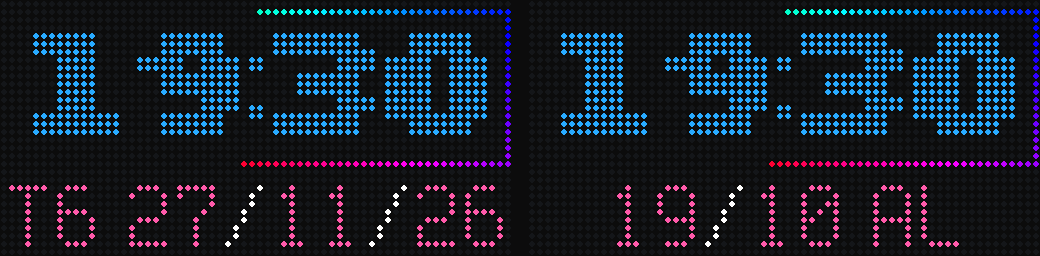
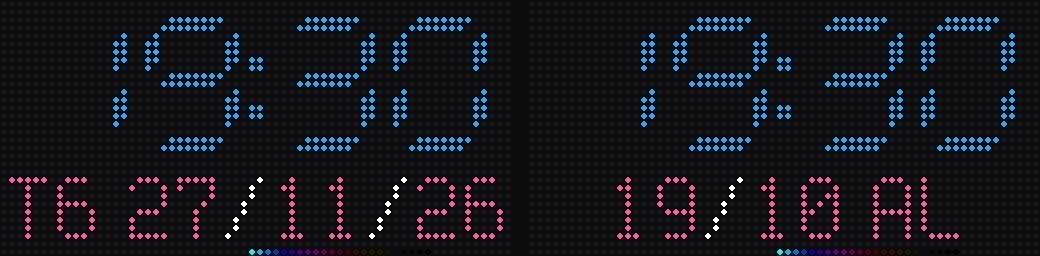
feat: add seven-segment time and smooth full-panel rainbow runner

diff --git a/main/gfx/clock_face.cpp b/main/gfx/clock_face.cpp
@@ -12,14 +12,14 @@ static int advance(char c) {
     // Dấu chấm/space tự tạo khoảng cách; không thêm một cột trống nữa.
     return small_width(c)+(c==' '||c=='.'?0:1);
 }
-static void small_glyph(char c,int x,int y,Rgb color,int clip_top) {
+static void small_glyph(char c,int x,int y,Rgb color,int clip_top,int clip_bottom=PANEL_H) {
     const char *found=strchr(CLOCK_SMALL_CODES,c);
     if(!found||c==' ') return;
     const auto &rows=CLOCK_SMALL[found-CLOCK_SMALL_CODES];
     for(int row=0;row<8;++row) for(int col=0;col<5;++col) {
         const int px=x+(c=='.'?0:col), py=y+row;
         if(c=='.'&&col!=2) continue;
-        if(px<0||px>=PANEL_W||py<clip_top||py>=PANEL_H) continue;
+        if(px<0||px>=PANEL_W||py<clip_top||py>=clip_bottom) continue;
         if(rows[row]&(16>>col)) panel_set_pixel(px,py,color.r,color.g,color.b);
     }
 }
@@ -33,11 +33,26 @@ void clock_face_draw(const char *text,int y,int,Rgb color) {
     for(;*text;++text) {small_glyph(*text,x,y,color,0);x+=advance(*text);}
 }
 void clock_face_time(int hour,int minute,bool colon,Rgb color) {
+    static const uint8_t MASKS[]={0x3f,0x06,0x5b,0x4f,0x66,0x6d,0x7d,0x07,0x7f,0x6f};
     const int digits[]={hour/10,hour%10,minute/10,minute%10};
-    const int xs[]={3,17,34,48};
-    for(int i=0;i<4;++i) for(int row=0;row<13;++row) for(int col=0;col<13;++col) {
-        if(CLOCK_DIGITS[digits[i]][row]&(1<<(12-col)))
-            panel_set_pixel(xs[i]+col,row+4,color.r,color.g,color.b);
+    const int xs[]={4,18,35,49};
+    // Bảy đoạn chuẩn, ô 12x17, nét 2 px với đầu đoạn vát.
+    for(int i=0;i<4;++i) {
+        const uint8_t mask=MASKS[digits[i]];
+        const int horizontal_bits[]={0,6,3}, ys[]={2,9,17};
+        for(int segment=0;segment<3;++segment) if(mask&(1<<horizontal_bits[segment])) {
+            for(int dy=0;dy<2;++dy) for(int dx=0;dx<8;++dx) {
+                if((dx==0&&dy==0)||(dx==7&&dy==1)) continue;
+                panel_set_pixel(xs[i]+2+dx,ys[segment]+dy,color.r,color.g,color.b);
+            }
+        }
+        const int vertical_bits[]={5,1,4,2}, vx[]={0,10,0,10}, vy[]={4,4,11,11};
+        for(int segment=0;segment<4;++segment) if(mask&(1<<vertical_bits[segment])) {
+            for(int dy=0;dy<5;++dy) for(int dx=0;dx<2;++dx) {
+                if((dy==0&&dx==0)||(dy==4&&dx==1)) continue;
+                panel_set_pixel(xs[i]+vx[segment]+dx,vy[segment]+dy,color.r,color.g,color.b);
+            }
+        }
     }
     if(colon) for(int row=0;row<2;++row) for(int col=0;col<2;++col) {
         panel_set_pixel(31+col,7+row,color.r,color.g,color.b);
@@ -50,26 +65,37 @@ void clock_face_date(const char *text,int offset_y,Rgb color) {
     for(;*text;++text) {
         // Trắng giữ dấu / nổi bật với mọi màu lịch bão hòa theo giờ.
         const Rgb ink=*text=='/'?Rgb{255,255,255}:color;
-        small_glyph(*text,x,23+offset_y,ink,22);
+        small_glyph(*text,x,22+offset_y,ink,22,PANEL_H-2);
         x+=advance(*text);
     }
 }
 
-void clock_face_seconds(int second) {
-    if(second<0||second>59) return;
-    // Khung (0,1)..(63,20): 164 điểm duy nhất, bắt đầu giữa cạnh trên.
-    constexpr int RIGHT=63,TOP=1,BOTTOM=20,PERIMETER=164;
-    const int lit=(second+1)*PERIMETER/60;
-    for(int i=0;i<lit;++i) {
-        // Thứ tự chuẩn: góc trên trái -> phải -> dưới -> trái -> trên.
-        // Dịch 32 điểm để mốc 00 giây ở giữa cạnh trên, x=32.
-        int position=(i+32)%PERIMETER;
+void clock_face_seconds(uint32_t minute_ms) {
+    if(minute_ms>=60000) return;
+    constexpr int WIDTH=PANEL_W-1,HEIGHT=PANEL_H-1;
+    constexpr int PERIMETER=2*(WIDTH+HEIGHT),TAIL=24;
+    const uint32_t head=minute_ms*PERIMETER*256/60000;
+    const int index=head/256,fraction=head%256;
+    auto sample=[&](int distance) -> Rgb {
+        if(distance>=TAIL) return {0,0,0};
+        const int gain=(TAIL-distance)*(TAIL-distance)*255/(TAIL*TAIL);
+        const Rgb c=hue_to_rgb(static_cast<uint8_t>(distance*256/TAIL+minute_ms*256/60000));
+        return {static_cast<uint8_t>(c.r*gain/255),static_cast<uint8_t>(c.g*gain/255),static_cast<uint8_t>(c.b*gain/255)};
+    };
+    for(int i=0;i<PERIMETER;++i) {
+        const int distance=(index-i+PERIMETER)%PERIMETER;
+        const Rgb a=sample(distance),b=sample((distance+1)%PERIMETER);
+        const Rgb color={static_cast<uint8_t>((a.r*(256-fraction)+b.r*fraction)/256),
+                         static_cast<uint8_t>((a.g*(256-fraction)+b.g*fraction)/256),
+                         static_cast<uint8_t>((a.b*(256-fraction)+b.b*fraction)/256)};
+        if(!(color.r||color.g||color.b)) continue;
+        // Bắt đầu giữa cạnh trên; chạy trên toàn bộ mép 64x32.
+        const int position=(i+PANEL_W/2)%PERIMETER;
         int x,y;
-        if(position<63) {x=position;y=TOP;}
-        else if(position<82) {x=RIGHT;y=TOP+position-63;}
-        else if(position<145) {x=RIGHT-(position-82);y=BOTTOM;}
-        else {x=0;y=BOTTOM-(position-145);}
-        const Rgb color=hue_to_rgb(static_cast<uint8_t>(i*256/PERIMETER+second*4));
+        if(position<WIDTH) {x=position;y=0;}
+        else if(position<WIDTH+HEIGHT) {x=WIDTH;y=position-WIDTH;}
+        else if(position<2*WIDTH+HEIGHT) {x=WIDTH-(position-WIDTH-HEIGHT);y=HEIGHT;}
+        else {x=0;y=HEIGHT-(position-2*WIDTH-HEIGHT);}
         panel_set_pixel(x,y,color.r,color.g,color.b);
     }
 }

diff --git a/tools/test_clock_layout.cpp b/tools/test_clock_layout.cpp
@@ -4,6 +4,7 @@
 #include <cstring>
 #include <initializer_list>
 #include <set>
+#include <cstdlib>
 #include "app/clock_palette.h"
 static bool pixels[32][64];
 static uint32_t colors[32][64];
@@ -24,28 +25,33 @@ int main() {
         memset(pixels,0,sizeof(pixels));
         clock_face_time(h,m,false,{255,255,255});
         assert(!pixels[7][31]&&!pixels[13][31]);
-        for(int y=0;y<32;++y)for(int x=0;x<64;++x)if(pixels[y][x])assert(x>0&&x<63&&y>1&&y<20);
+        for(int y=0;y<32;++y)for(int x=0;x<64;++x)if(pixels[y][x])assert(x>0&&x<63&&y>0&&y<20);
     }
-    // Viền bắt đầu giữa cạnh trên, đi hết 164 điểm, không vào vùng chữ/lịch.
-    std::set<int> previous;
-    for(int second=0;second<60;++second) {
-        memset(pixels,0,sizeof(pixels));
-        clock_face_seconds(second);
-        std::set<int> lit;
+    // Đuôi rainbow chạy liên tục quanh mép; không tích lũy sáng cả viền.
+    std::set<int> visited;
+    uint32_t initial[32][64]={};
+    for(int ms=0;ms<60000;ms+=40) {
+        memset(pixels,0,sizeof(pixels));memset(colors,0,sizeof(colors));
+        clock_face_seconds(ms);
+        int count=0;
         for(int y=0;y<32;++y) for(int x=0;x<64;++x) if(pixels[y][x]) {
-            assert(((y==1||y==20)&&x>=0&&x<64)||((x==0||x==63)&&y>=1&&y<=20));
-            lit.insert(y*64+x);
+            assert(x==0||x==63||y==0||y==31);
+            visited.insert(y*64+x);++count;
         }
-        assert(lit.size()==static_cast<size_t>((second+1)*164/60));
-        assert(pixels[1][32]);
-        if(second<59) assert(!pixels[1][31]);
-        for(int point:previous) assert(lit.count(point));
-        previous=lit;
+        assert(count>0&&count<=25);
+        if(ms==0) {assert(pixels[0][32]);memcpy(initial,colors,sizeof(initial));}
     }
-    assert(previous.size()==164);
-    std::set<uint32_t> rainbow;
-    for(int point:previous) rainbow.insert(colors[point/64][point%64]);
-    assert(rainbow.size()>60);
+    assert(visited.size()==188);
+    memset(pixels,0,sizeof(pixels));memset(colors,0,sizeof(colors));
+    clock_face_seconds(59999);
+    int wrap_difference=0;
+    for(int y=0;y<32;++y)for(int x=0;x<64;++x)for(int shift:{0,8,16})
+        wrap_difference+=std::abs(int((initial[y][x]>>shift)&255)-int((colors[y][x]>>shift)&255));
+    assert(wrap_difference<500);
+    memset(colors,0,sizeof(colors));clock_face_seconds(0);
+    const uint32_t first_head=colors[0][32];
+    memset(colors,0,sizeof(colors));clock_face_seconds(40);
+    assert(colors[0][32]!=first_head); // Có nội suy trước khi nhảy sang pixel kế tiếp.
     for(bool connecting:{false,true}) {
         memset(pixels,0,sizeof(pixels));
         clock_face_status(connecting);

diff --git a/tools/gen_clock_font.py b/tools/gen_clock_font.py
@@ -1,27 +1,12 @@
 """Sinh bitmap đồng hồ ở kích thước gốc; không kéo giãn glyph lúc hiển thị.
 
-Chạy: python tools/gen_clock_font.py (cần Pillow)
-Silkscreen Bold và bitmap Spleen 6x12 có sẵn trong tools/gen_fonts/font_src.
+Chạy: python tools/gen_clock_font.py (chỉ cần thư viện chuẩn)
+Giờ dùng 7 đoạn chuẩn; chữ nhỏ dùng bitmap Spleen 6x12.
 """
 from pathlib import Path
 import re
 ROOT = Path(__file__).resolve().parents[1]
 SRC = ROOT / 'tools/gen_fonts/font_src'
-# Silkscreen Bold có sẵn (SIL OFL 1.1), raster trực tiếp ở cỡ 20.
-# Ô số 13x13, giữ cạnh pixel sắc, không kéo giãn.
-from PIL import Image, ImageDraw, ImageFont
-font = ImageFont.truetype(str(SRC / 'Silkscreen-Bold.ttf'),20)
-large = []
-images=[]
-for digit in '0123456789':
-    im=Image.new('1',(64,64));draw=ImageDraw.Draw(im);draw.fontmode='1'
-    draw.text((4,0),digit,font=font,fill=1);images.append(im)
-top=min(im.getbbox()[1] for im in images)
-for im in images:
-    box=im.getbbox();glyph=im.crop(box)
-    assert glyph.width<=13 and box[3]-top<=13
-    cell=Image.new('1',(13,13));cell.paste(glyph,((13-glyph.width)//2,box[1]-top))
-    large.append([sum(1<<(12-x) for x in range(13) if cell.getpixel((x,y))) for y in range(13)])
 # Chữ lịch pixel gốc 5x8, từ BDF Spleen 6x12 (BSD-2-Clause).
 bdf = (SRC / 'spleen-6x12.bdf').read_text()
 chars = '0123456789ABCDEFGHIJKLMNOPQRSTUVWXYZ:/.- '
@@ -31,16 +16,12 @@ for char in chars:
     rows = [int(line,16) >> 3 for line in block.split('BITMAP\n')[1].split('ENDCHAR')[0].splitlines()]
     small.append(rows[1:9])
 out = ['// Sinh bằng tools/gen_clock_font.py. Không sửa tay.',
-       '// Giờ: Silkscreen Bold, Jason Kottke (SIL OFL 1.1).',
-       '// Lịch: Spleen 6x12, Frederic Cambus (BSD-2-Clause).',
+       '// Chữ lịch: Spleen 6x12, Frederic Cambus (BSD-2-Clause).',
        '#pragma once', '#include <stdint.h>',
-       'static const uint16_t CLOCK_DIGITS[10][13] = {']
-for rows in large:
-    out.append('    {'+', '.join(hex(v) for v in rows)+'},')
-out += ['};', 'static const char CLOCK_SMALL_CODES[] = "'+chars+'";',
-        'static const uint8_t CLOCK_SMALL[][8] = {']
+       'static const char CLOCK_SMALL_CODES[] = "'+chars+'";',
+       'static const uint8_t CLOCK_SMALL[][8] = {']
 for rows in small:
     out.append('    {'+', '.join(hex(v) for v in rows)+'},')
 out += ['};', '']
 (ROOT / 'main/gfx/clock_font.h').write_text('\n'.join(out),encoding='utf-8')
-print('Generated Silkscreen Bold pixel 13x13 clock digits and 5x8 calendar glyphs')
+print('Generated Spleen 5x8 calendar glyphs; time uses standard seven segments')

diff --git a/main/app/clock.cpp b/main/app/clock.cpp
@@ -9,6 +9,7 @@
 #include <cstring>
 #include <cstdio>
 #include <ctime>
+#include <sys/time.h>
 #include <cstdlib>
 #include <cctype>
 #include "freertos/FreeRTOS.h"
@@ -181,7 +182,8 @@ static void display(void *) {
         const auto held=button_held_ms();
         if(held>=2000&&!latched) {s_open_setup=true;latched=true;}
         if(!held) latched=false;
-        const time_t now=time(nullptr);
+        timeval wall={};gettimeofday(&wall,nullptr);
+        const time_t now=wall.tv_sec;
         const bool setup=s_setup.load();
         const bool connecting=s_has_credentials.load()||s_connecting.load();
         const bool ready=s_time_ready.load();
@@ -189,7 +191,7 @@ static void display(void *) {
         const int64_t phase=uptime/CLOCK_CALENDAR_MS;
         const int elapsed=uptime%CLOCK_CALENDAR_MS;
         const bool entering=elapsed<CLOCK_CALENDAR_TRANSITION_MS;
-        const int64_t animation=entering?uptime/40:-1;
+        const int64_t animation=(ready||entering)?uptime/40:-1;
         if(now==last_second&&setup==last_setup&&connecting==last_connecting&&ready==last_ready&&animation==last_animation) {
             vTaskDelay(pdMS_TO_TICKS(40));
             continue;
@@ -204,7 +206,6 @@ static void display(void *) {
             // Ngày dân sự tại Việt Nam; không đổi màu lúc chuyển dương/âm lịch.
             const Rgb date_color=clock_palette_mix(palette.date,(now+7*3600)/86400,28);
             clock_face_time(t.tm_hour,t.tm_min,t.tm_sec%2==0,time_color);
-            clock_face_seconds(t.tm_sec);
             char line[32];
             if(phase%2==0) {
                 static const char *WEEKDAYS[]={"CN","T2","T3","T4","T5","T6","T7"};
@@ -217,6 +218,7 @@ static void display(void *) {
             const int remaining=entering?CLOCK_CALENDAR_TRANSITION_MS-elapsed:0;
             const int offset=(10*remaining*remaining)/(CLOCK_CALENDAR_TRANSITION_MS*CLOCK_CALENDAR_TRANSITION_MS);
             clock_face_date(line,offset,date_color);
+            clock_face_seconds(t.tm_sec*1000+wall.tv_usec/1000);
         } else {
             clock_face_status(connecting);
         }

diff --git a/main/gfx/clock_font.h b/main/gfx/clock_font.h
@@ -1,20 +1,7 @@
 // Sinh bằng tools/gen_clock_font.py. Không sửa tay.
-// Giờ: Silkscreen Bold, Jason Kottke (SIL OFL 1.1).
-// Lịch: Spleen 6x12, Frederic Cambus (BSD-2-Clause).
+// Chữ lịch: Spleen 6x12, Frederic Cambus (BSD-2-Clause).
 #pragma once
 #include <stdint.h>
-static const uint16_t CLOCK_DIGITS[10][13] = {
-    {0x3fc, 0x3fc, 0x3fc, 0x1f9f, 0x1f9f, 0x1f9f, 0x1f9f, 0x1f9f, 0x1f9f, 0x1f9f, 0x1fff, 0x3fc, 0x3fc},
-    {0xff0, 0xff0, 0xff0, 0x1f0, 0x1f0, 0x1f0, 0x1f0, 0x1f0, 0x1f0, 0x1f0, 0xffe, 0xffe, 0xffe},
-    {0x1ffc, 0x1ffc, 0x1fff, 0x1f, 0x1f, 0x3fc, 0x3fc, 0x3fc, 0x1f80, 0x1f80, 0x1fff, 0x1fff, 0x1fff},
-    {0x1ffc, 0x1ffc, 0x1fff, 0x1f, 0x1f, 0x3fc, 0x3fc, 0x3fc, 0x1f, 0x1f, 0x1ffc, 0x1ffc, 0x1ffc},
-    {0x1ffc, 0x1ffc, 0x1ffc, 0x1ffc, 0x1ffc, 0x1fff, 0x1fff, 0x1fff, 0xfc, 0xfc, 0xfc, 0xfc, 0xfc},
-    {0x1fff, 0x1fff, 0x1fff, 0x1f80, 0x1f80, 0x1ffc, 0x1ffc, 0x1ffc, 0x1f, 0x1f, 0x1ffc, 0x1ffc, 0x1ffc},
-    {0x3fc, 0x3fc, 0x1ffc, 0x1f80, 0x1f80, 0x1ffc, 0x1ffc, 0x1ffc, 0x1f9f, 0x1f9f, 0x3fc, 0x3fc, 0x3fc},
-    {0x1fff, 0x1fff, 0x1fff, 0x1f, 0x1f, 0xfc, 0xfc, 0xfc, 0x3e0, 0x3e0, 0x3e0, 0x3e0, 0x3e0},
-    {0x3fc, 0x3fc, 0x1fff, 0x1f9f, 0x1f9f, 0x3fc, 0x3fc, 0x3fc, 0x1f9f, 0x1f9f, 0x1fff, 0x3fc, 0x3fc},
-    {0x3fc, 0x3fc, 0x3fc, 0x1f9f, 0x1f9f, 0x3ff, 0x3ff, 0x3ff, 0x1f, 0x1f, 0x3fc, 0x3fc, 0x3fc},
-};
 static const char CLOCK_SMALL_CODES[] = "0123456789ABCDEFGHIJKLMNOPQRSTUVWXYZ:/.- ";
 static const uint8_t CLOCK_SMALL[][8] = {
     {0xe, 0x11, 0x13, 0x15, 0x19, 0x11, 0x11, 0xe},

diff --git a/main/gfx/clock_face.h b/main/gfx/clock_face.h
@@ -1,9 +1,9 @@
 #pragma once
 #include "gfx/color.h"
-// Font bitmap tự nhiên: giờ Silkscreen Bold pixel cao 13 px, lịch cao 8 px, không kéo giãn.
+// Giờ LED 7 đoạn cao 17 px; lịch bitmap cao 8 px.
 void clock_face_time(int hour, int minute, bool colon, Rgb color);
-// Viền rainbow 1 pixel quanh giờ, từ giữa cạnh trên theo chiều kim đồng hồ.
-void clock_face_seconds(int second);
+// Đoạn rainbow có đuôi mờ quanh toàn panel; pha 0..59999 ms, 1 vòng/phút.
+void clock_face_seconds(uint32_t minute_ms);
 void clock_face_status(bool connecting);
 int clock_face_date_width(const char *text);
 void clock_face_date(const char *text, int offset_y, Rgb color);

diff --git a/README.md b/README.md
@@ -4,8 +4,8 @@ Nhánh `feature/p5-clock` chuyển ứng dụng sang đồng hồ Việt Nam (UT
 
 ![Xem trước bitmap giờ và lịch](docs/clock-preview.png)
 
-- Chỉ hai hàng: giờ/phút 24 giờ cao **13 px**, lịch bitmap cao **8 px** (nét gốc, không kéo giãn).
-- Viền giây rainbow cao 1 pixel quanh vùng giờ: bắt đầu giữa cạnh trên, chạy theo chiều kim đồng hồ, đầy một vòng ở giây 59 rồi bắt đầu lại khi sang phút.
+- Chỉ hai hàng: giờ/phút 24 giờ kiểu **LED 7 đoạn**, cao **17 px**, lịch bitmap cao **8 px** (nét gốc, không kéo giãn).
+- Một đoạn rainbow có đuôi mờ chạy liên tục quanh **toàn bộ mép màn hình 64×32**: bắt đầu giữa cạnh trên, chiều kim đồng hồ, một vòng/phút. Nội suy độ sáng ở 25 fps để di chuyển mượt, không tích lũy sáng cả viền.
 - Dấu hai chấm bật/tắt theo từng giây; màu giờ thay đổi mỗi giờ, màu lịch thay đổi mỗi ngày tại UTC+7. Dấu `/` luôn màu trắng để dễ phân biệt với chữ lịch.
 - Hàng lịch luân phiên mỗi **6 giây**: `T6 27/11/26` và `19/10 AL` (thêm `N` nếu tháng nhuận).
 - Khi đổi lịch, dòng mới trượt lên trong **400 ms**; giờ luôn đứng yên. Có thể chỉnh trong `main/config/app_config.h`.
@@ -61,9 +61,9 @@ Mã ứng dụng bảng chữ/ghép màn hình cũ vẫn được giữ làm tha
 
 ## Font đồng hồ
 
-Số giờ dùng [Silkscreen Bold](https://github.com/googlefonts/silkscreen) của Jason Kottke (SIL OFL 1.1), raster đúng ô pixel 13×13 để chừa khoảng trống cho viền giây; lịch dùng Spleen 6x12, phần nét cao 8 px. Không dùng số bảy đoạn hay kéo bitmap 3x5. Bitmap đã sinh được commit nên build ESP-IDF không cần Pillow.
+Giờ dùng bảy đoạn LED chuẩn, ô số 12×17, nét 2 px với đầu đoạn vát. Lịch dùng Spleen 6x12, phần nét cao 8 px và nằm ở hàng 22–29 để chừa mép dưới cho viền. Bitmap đã sinh được commit nên build ESP-IDF không cần Pillow.
 
-Sinh lại bằng `python tools/gen_clock_font.py` (cần Pillow). Giấy phép: `tools/gen_fonts/font_src/LICENSE-Silkscreen.txt`, `tools/gen_fonts/font_src/LICENSE-Spleen.txt`.
+Sinh lại bằng `python tools/gen_clock_font.py` (chỉ cần thư viện chuẩn Python). Giấy phép chữ lịch: `tools/gen_fonts/font_src/LICENSE-Spleen.txt`.
 
 API cấu hình: `GET /scan?refresh=1` yêu cầu quét; `GET /scan` trả `scanning` và danh sách `{ssid,rssi,secured}`. Quét thực hiện trong tác vụ mạng; màn hình vẫn cập nhật độc lập. Chặn quét khi đang thử kết nối để tránh xung đột driver.
 
@@ -71,6 +71,6 @@ Kiểm tra luồng chọn Wi-Fi: `node tools/test_clock_portal.cjs` (Node.js, kh
 
 ## Phối màu tùy chọn
 
-Giữ BOOT 2 giây, vào Wi-Fi cấu hình và mở **Phối màu đồng hồ và lịch**. Mỗi bộ có 4 màu gốc tùy chọn. Bấm **Lưu bảng màu** để lưu riêng vào NVS (không cần nhập lại mật khẩu Wi-Fi). Giờ nội suy 24 màu cho 24 giờ; lịch nội suy 28 màu và đổi theo ngày dân sự Việt Nam. Bảng màu được giữ sau khi mất điện. Dấu `/` vẫn trắng; vạch giây luôn rainbow.
+Giữ BOOT 2 giây, vào Wi-Fi cấu hình và mở **Phối màu đồng hồ và lịch**. Mỗi bộ có 4 màu gốc tùy chọn. Bấm **Lưu bảng màu** để lưu riêng vào NVS (không cần nhập lại mật khẩu Wi-Fi). Giờ nội suy 24 màu cho 24 giờ; lịch nội suy 28 màu và đổi theo ngày dân sự Việt Nam. Bảng màu được giữ sau khi mất điện. Dấu `/` vẫn trắng; viền giây luôn rainbow.
 
 API bảng màu: `GET /palette` và `POST /palette` với `{"time":["#RRGGBB",...],"date":["#RRGGBB",...]}`; mỗi mảng đúng 4 màu.

diff --git a/CHANGELOG.md b/CHANGELOG.md
@@ -1,3 +1,10 @@
+# 2.5.0 — Giờ 7 đoạn, viền rainbow chuyển động mượt
+
+- Giờ dùng bảy đoạn LED chuẩn, cao 17 px.
+- Đoạn rainbow có đuôi mờ chạy toàn bộ mép 64×32, một vòng/phút từ giữa cạnh trên.
+- Nội suy vị trí/độ sáng theo mili giây, cập nhật 25 fps; không sáng tích lũy.
+- Dịch lịch lên một pixel và cắt vùng hiệu ứng để không chạm viền.
+
 # 2.4.0 — Silkscreen Bold và viền giây
 
 - Đổi sang font pixel Silkscreen Bold có sẵn, thu giờ xuống 13 px.
